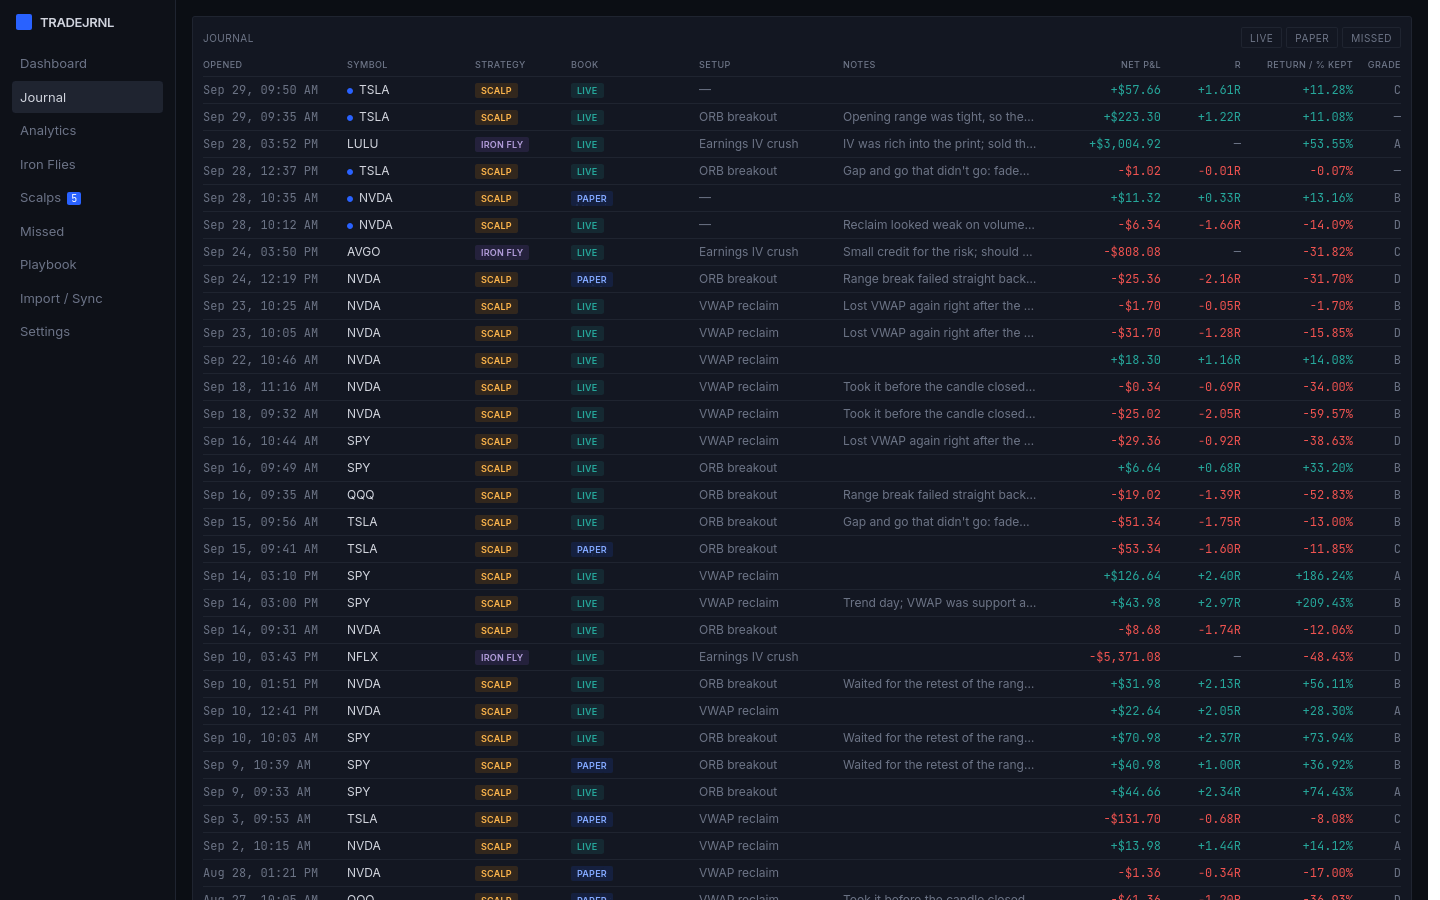
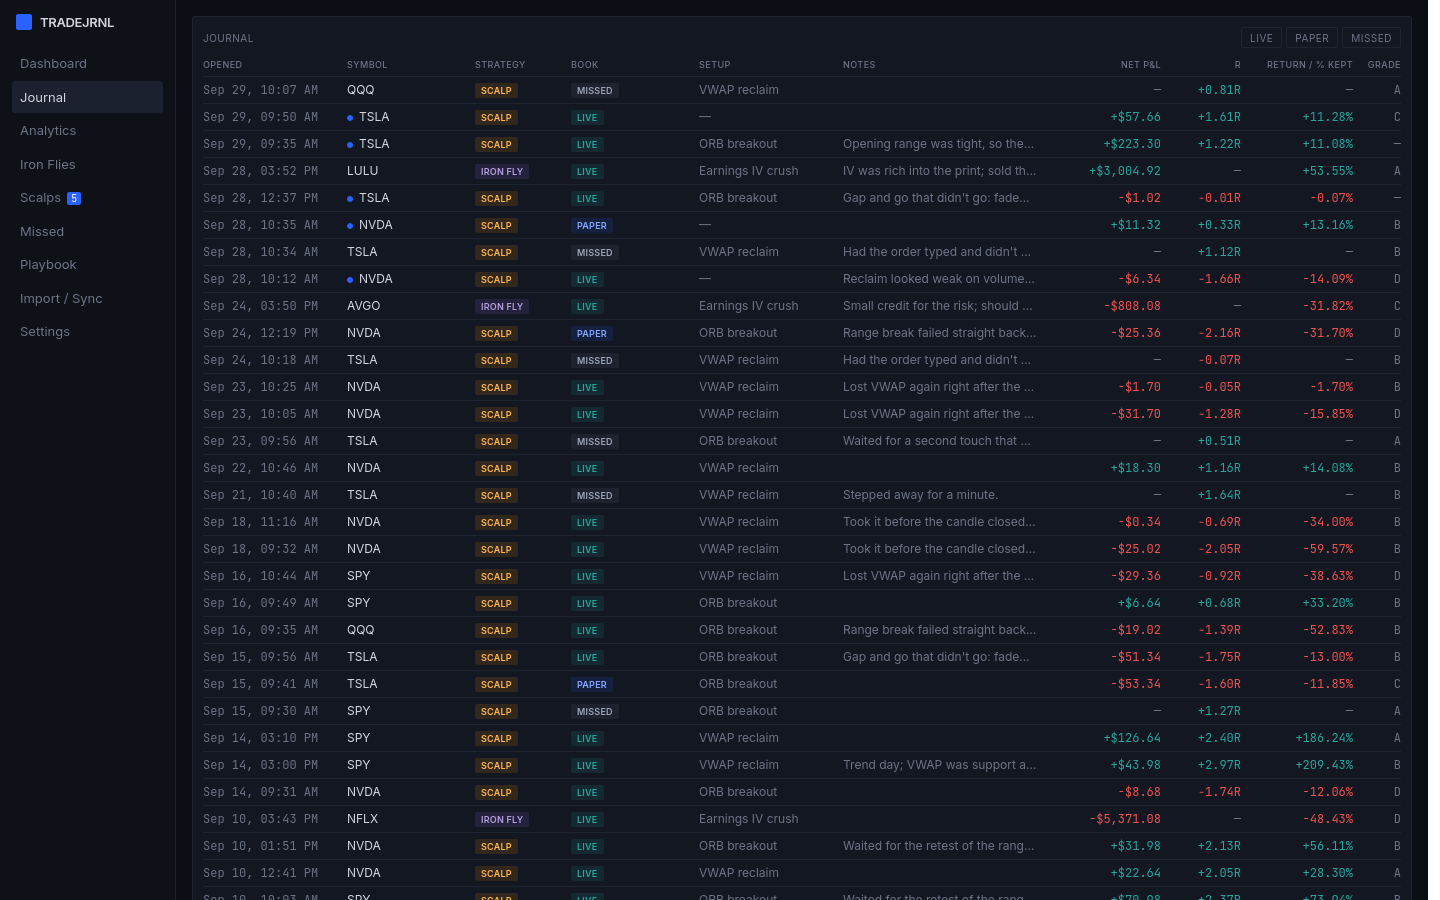
docs: missed trades in the README, with its screenshot, and in the parent spec

diff --git a/docs/superpowers/specs/2026-09-22-trading-journal-design.md b/docs/superpowers/specs/2026-09-22-trading-journal-design.md
@@ -160,7 +160,7 @@ All tables use `id TEXT` (UUID). Syncable tables also carry `created_at`, `updat
   - context: the stock at entry and its range over the hold are in `scalp_prices` (`entry_price`, `hold_high`, `hold_low`), fetched from minute bars ([2026-09-29-scalp-r-design.md](2026-09-29-scalp-r-design.md)). Calls count as long the stock, puts as short.
   - plan: `level_basis` (`stock` | `premium`), `stop_price`, `stock_entry_override` and `risk_override`, with the targets as rows of `scalp_targets` (`position`, `price`, `contracts`).
   - risk model and outcome: worked out on read by `scalpRisk` in `core`, never stored. That's IV at entry, the option at the stop and at each target, planned risk and reward, R, R:R, and MAE/MFE in stock dollars and in R. Minutes after open, hold time and option cost are worked out on read too, by the scalp analytics ([2026-09-30-scalp-analytics-design.md](2026-09-30-scalp-analytics-design.md)).
-  - missed trades only: `planned_entry_at`, `planned_entry_price`, `planned_exit_at`, `planned_exit_price`, `skip_reason`
+  - missed trades: built in [the missed-trades spec](2026-10-08-missed-trades-design.md) as their own 1:1 table, **missed_details** (`direction`, `entry_price`, `stop_price`, `target_price`, `exit_price`), with the entry and exit times on the trade's `opened_at` and `closed_at`, and the skip reason a tag of kind `skip`.
 - **iron_fly_details** (1:1 with trade). All fields are nullable, because historical imports will be incomplete:
   - structure: `body_put_strike`, `body_call_strike` (equal for a standard fly, different for a broken one), `put_wing_strike`, `call_wing_strike`, `contracts`, `credit` (per share). **Wings do not have to be the same width**, so put-side and call-side risk are tracked separately.
   - cash: `net_cost` (negative = credit received, matching oQuants' Cost column), `pnl_pct_of_cost`
@@ -304,6 +304,8 @@ Designed in its own spec: [2026-09-23-oquants-importer-design.md](2026-09-23-oqu
 
 ### 8.4 Missed trades
 
+Built: see [the missed-trades spec](2026-10-08-missed-trades-design.md). The user marks the exit (no rule-based exit); the direction follows the side the first stop is placed on, and a toggle flips it; R is on the stock and sits apart from taken trades' option R, except under the Analytics Book filter's Missed opt-in.
+
 - Created from **New → Missed trade**: pick the underlying, session date and direction; the chart loads.
 - **Chart-marking mode:** click to place **Entry** (time + price), drag a horizontal line for **Stop**, click to place **Exit**. An optional **Target** can be added too. Every value stays editable in the side form.
 - **R** = (exit − entry) ÷ |entry − stop|, sign-adjusted for direction.
@@ -335,7 +337,7 @@ Scalps are detailed in [2026-09-30-scalp-analytics-design.md](2026-09-30-scalp-a
 - **Global filter bar** (persisted in the URL): book (Live / Paper / Missed, multi-select), strategy, account, date range, ticker, setup, tag, and **include excluded**.
 - **Two separate surfaces:**
   - the **Dashboard** is the landing page: how the current period is going, recent trades, and anything sitting in the review queue;
-  - **Analytics** is its own page for aggregated stats, with tabs for **Overview, Scalps and Iron flies** (Missed to come), the global filter bar applied across all of them, and CSV export of any table it shows.
+  - **Analytics** is its own page for aggregated stats, with tabs for **Overview, Scalps, Iron flies and Missed**, the global filter bar applied across all of them, and CSV export of any table it shows.
 - **Dashboard and Analytics Overview share these:**
   - KPIs: net P&L, win rate, profit factor, expectancy ($/trade), avg R, trade count, max drawdown;
   - equity curve with drawdown shading;

diff --git a/README.md b/README.md
@@ -15,8 +15,8 @@ pnpm install
 pnpm demo           # http://127.0.0.1:4179
 ```
 
-`pnpm demo` builds the app, makes a fresh journal of about six months of fake scalps and
-earnings iron flies, with synthetic prices so every chart draws without an API key, and
+`pnpm demo` builds the app, makes a fresh journal of about six months of fake scalps,
+earnings iron flies and missed trades, with synthetic prices so every chart draws without an API key, and
 opens it on its own port. It lives in your system's temp directory (or `TJ_DEMO_DIR`),
 is replaced on the next run, and never touches your own journal. `--end YYYY-MM-DD` and
 `--seed N` pick the period and the data. The screenshots here are of
@@ -88,8 +88,11 @@ Windows. The server binds to loopback only and refuses requests that don't come 
   P&L calendar, open and recent trades) and an Analytics page with every split at once,
   a Scalps tab (time of day, hold time, breakdowns in R and return on cost, and what each
   mistake costs), and an Iron flies tab measured against max profit.
-- **Missed trades** — setups you saw but didn't take, scored in R, kept out of the
-  dollar statistics.
+- **Missed trades** — setups you saw but didn't take, marked on the day's chart (entry,
+  stop, target, exit) and scored in R on the stock, with a skip reason: what hesitating
+  cost, which skips were good calls, and each setup's taken trades beside its missed ones.
+  The day's other trades show faintly on the chart, and Analytics can count them in R and
+  win rate, never in dollars.
 - **Screenshots** — on every trade: paste (Ctrl+V), drop or pick PNG, JPEG or WebP images,
   with captions and a lightbox; stored once each, by content, in the data directory.
 - **Two machines** — Settings → Data exports the journal as one `.tjbundle` file (a tar
@@ -108,13 +111,13 @@ Windows. The server binds to loopback only and refuses requests that don't come 
   </tr>
 </table>
 
+![Missed trades: what the skips would have made, why they were skipped, and each one's R](docs/images/missed.png)
+
 ![The Journal: every trade in one list, with filters](docs/images/journal.png)
 
 *All screenshots are of `pnpm demo`'s fake data.*
 
-Missed trades arrive in a later step; see
-[the design spec](docs/superpowers/specs/2026-09-22-trading-journal-design.md) and
-[the plans](docs/superpowers/plans/).
+The design specs and plans behind each step are in [docs/superpowers](docs/superpowers/).
 
 ## Architecture
 

diff --git a/docs/superpowers/specs/2026-10-08-missed-trades-design.md b/docs/superpowers/specs/2026-10-08-missed-trades-design.md
@@ -1,7 +1,7 @@
 # Missed Trades — Design Spec
 
 - **Date:** 2026-10-08
-- **Status:** Approved 2026-10-08. The user made the decisions in §2 in the brainstorm, over four mockups, and approved the three design sections. They then said "proceed, you don't need me for anything, go on autopilot for now", so the written spec and the plan go ahead without a review stop.
+- **Status:** Approved 2026-10-08. The user made the decisions in §2 in the brainstorm, over four mockups, and approved the three design sections. They then said "proceed, you don't need me for anything, go on autopilot for now", so the written spec and the plan go ahead without a review stop. Implemented on feat/missed-trades. Plan: [2026-10-08-missed-trades.md](../plans/2026-10-08-missed-trades.md).
 - **Scope:** parent spec §8.4 (Phase 2, item 5): missed trades marked on the chart, scored in R, with their own page, an Analytics tab, and a place on the Playbook.
 - **Parent spec:** [2026-09-22-trading-journal-design.md](2026-09-22-trading-journal-design.md), §2 (Book, Missed trade, R), §6, §8.4 and §9.
 
